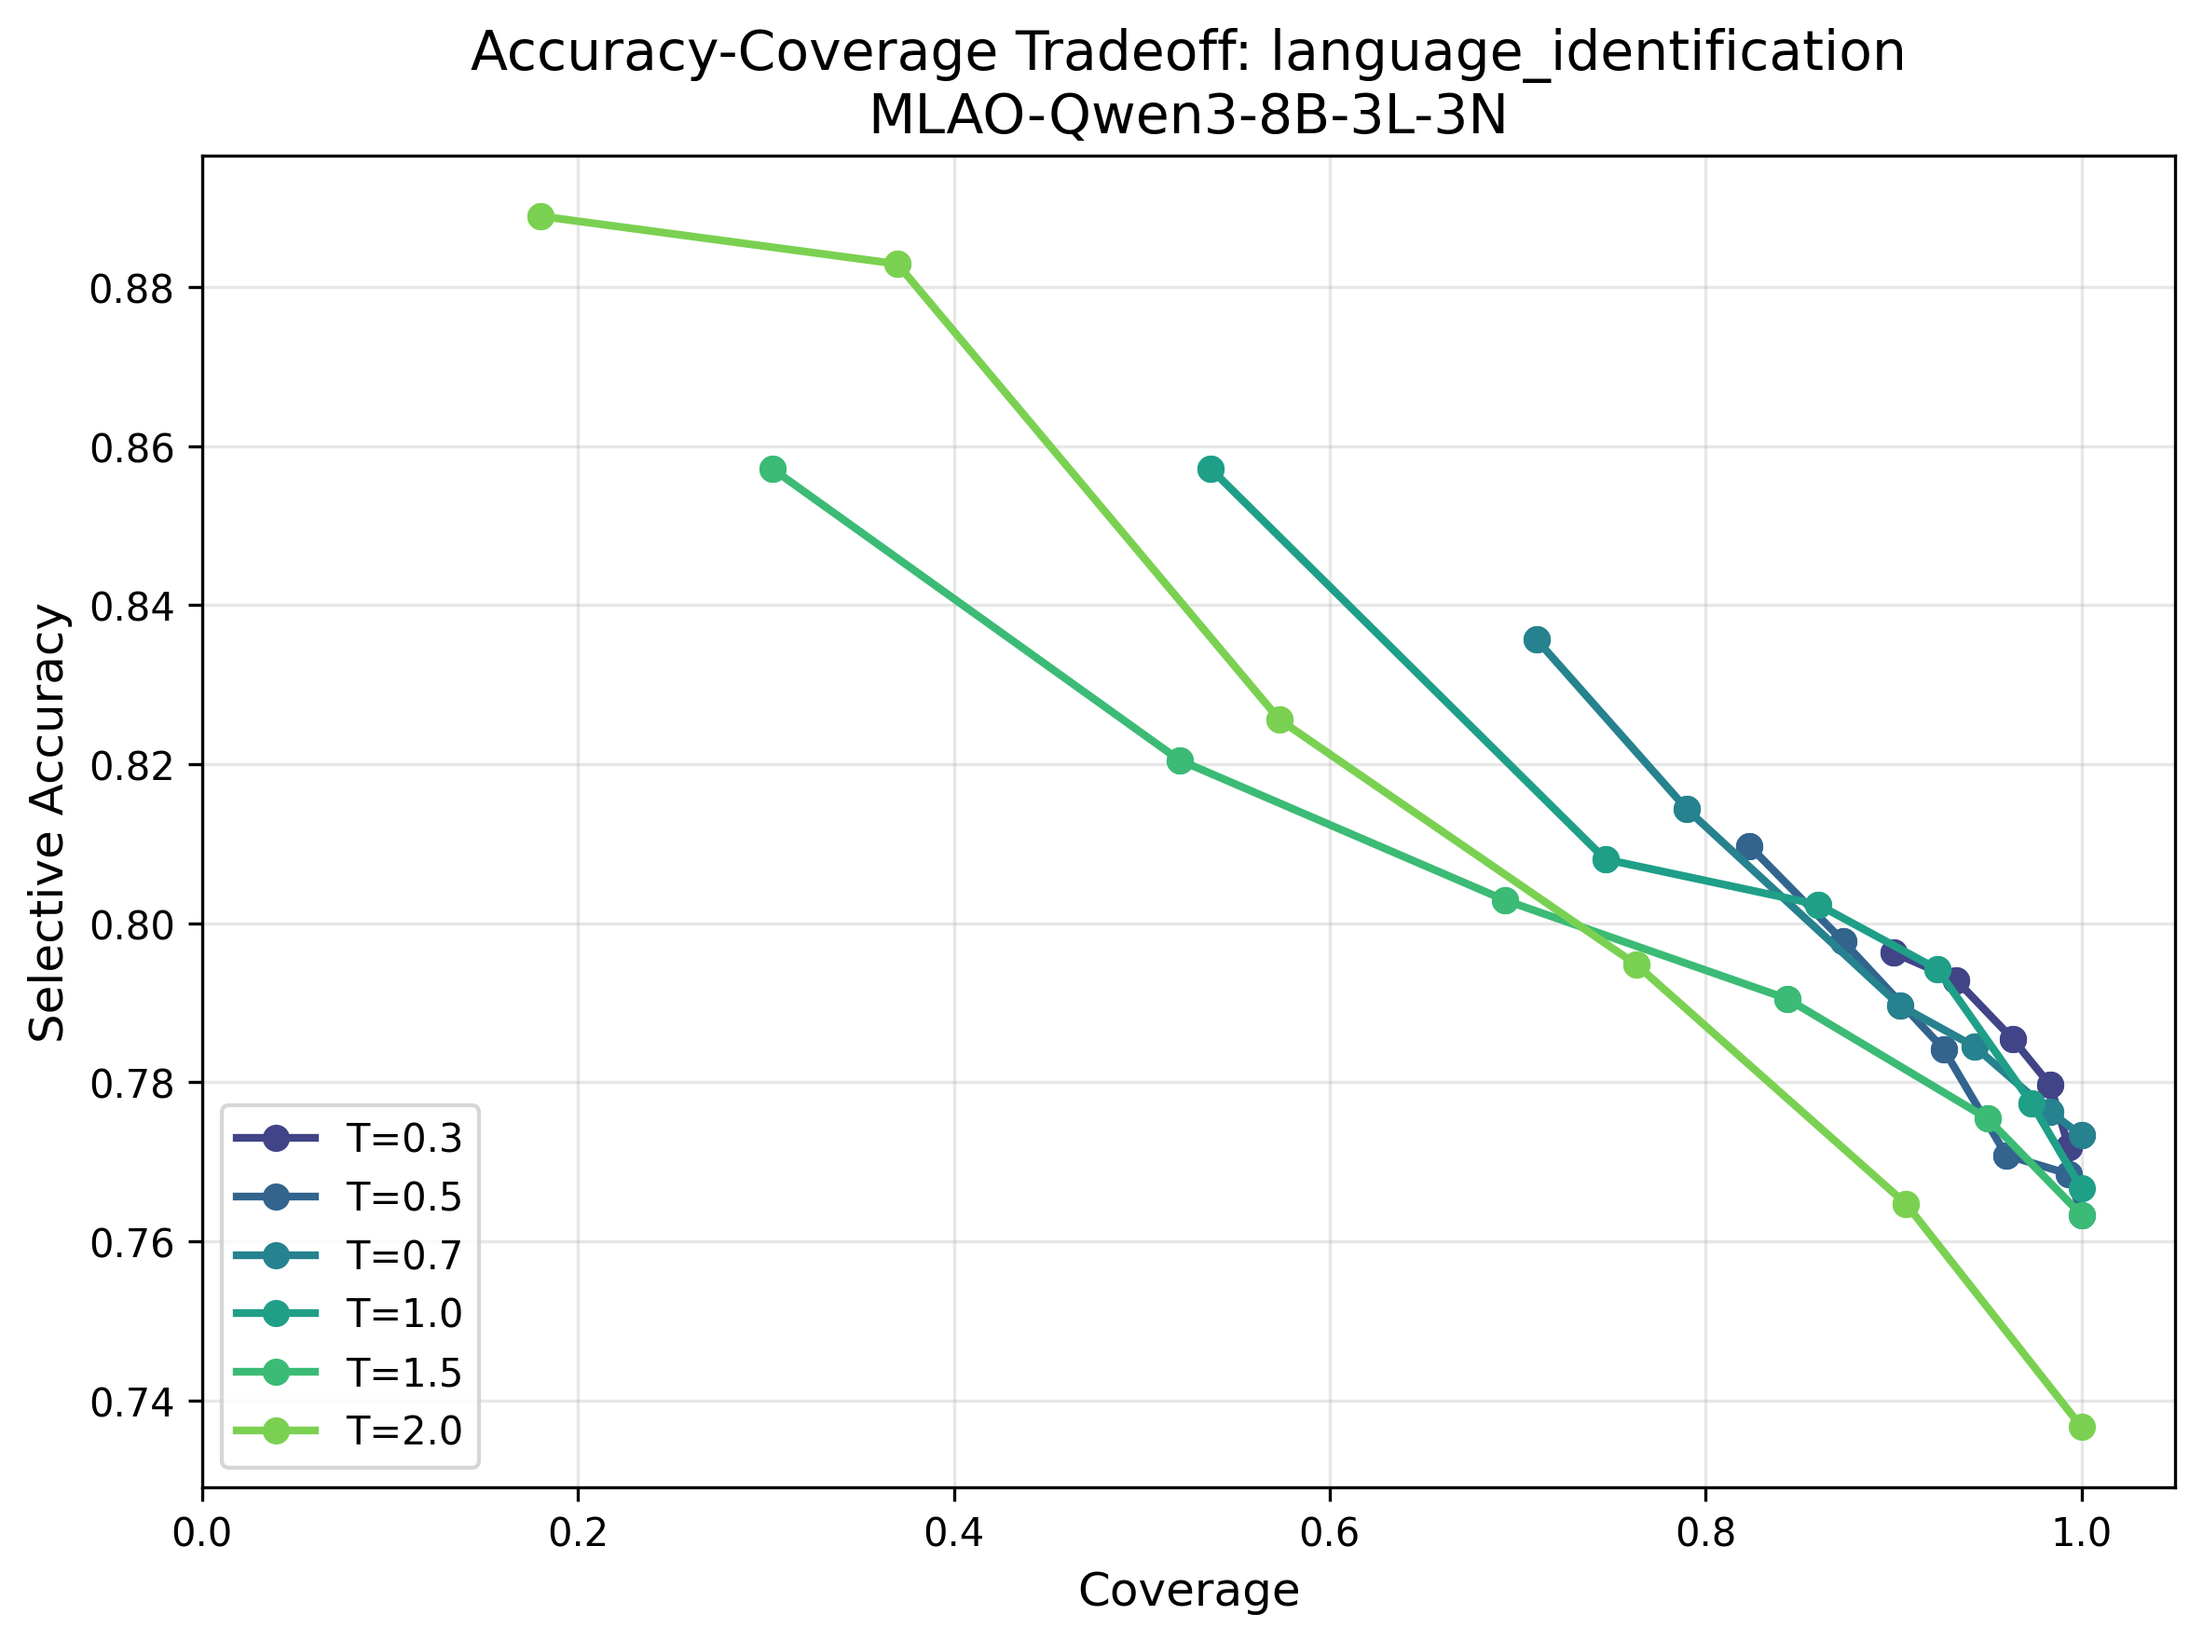
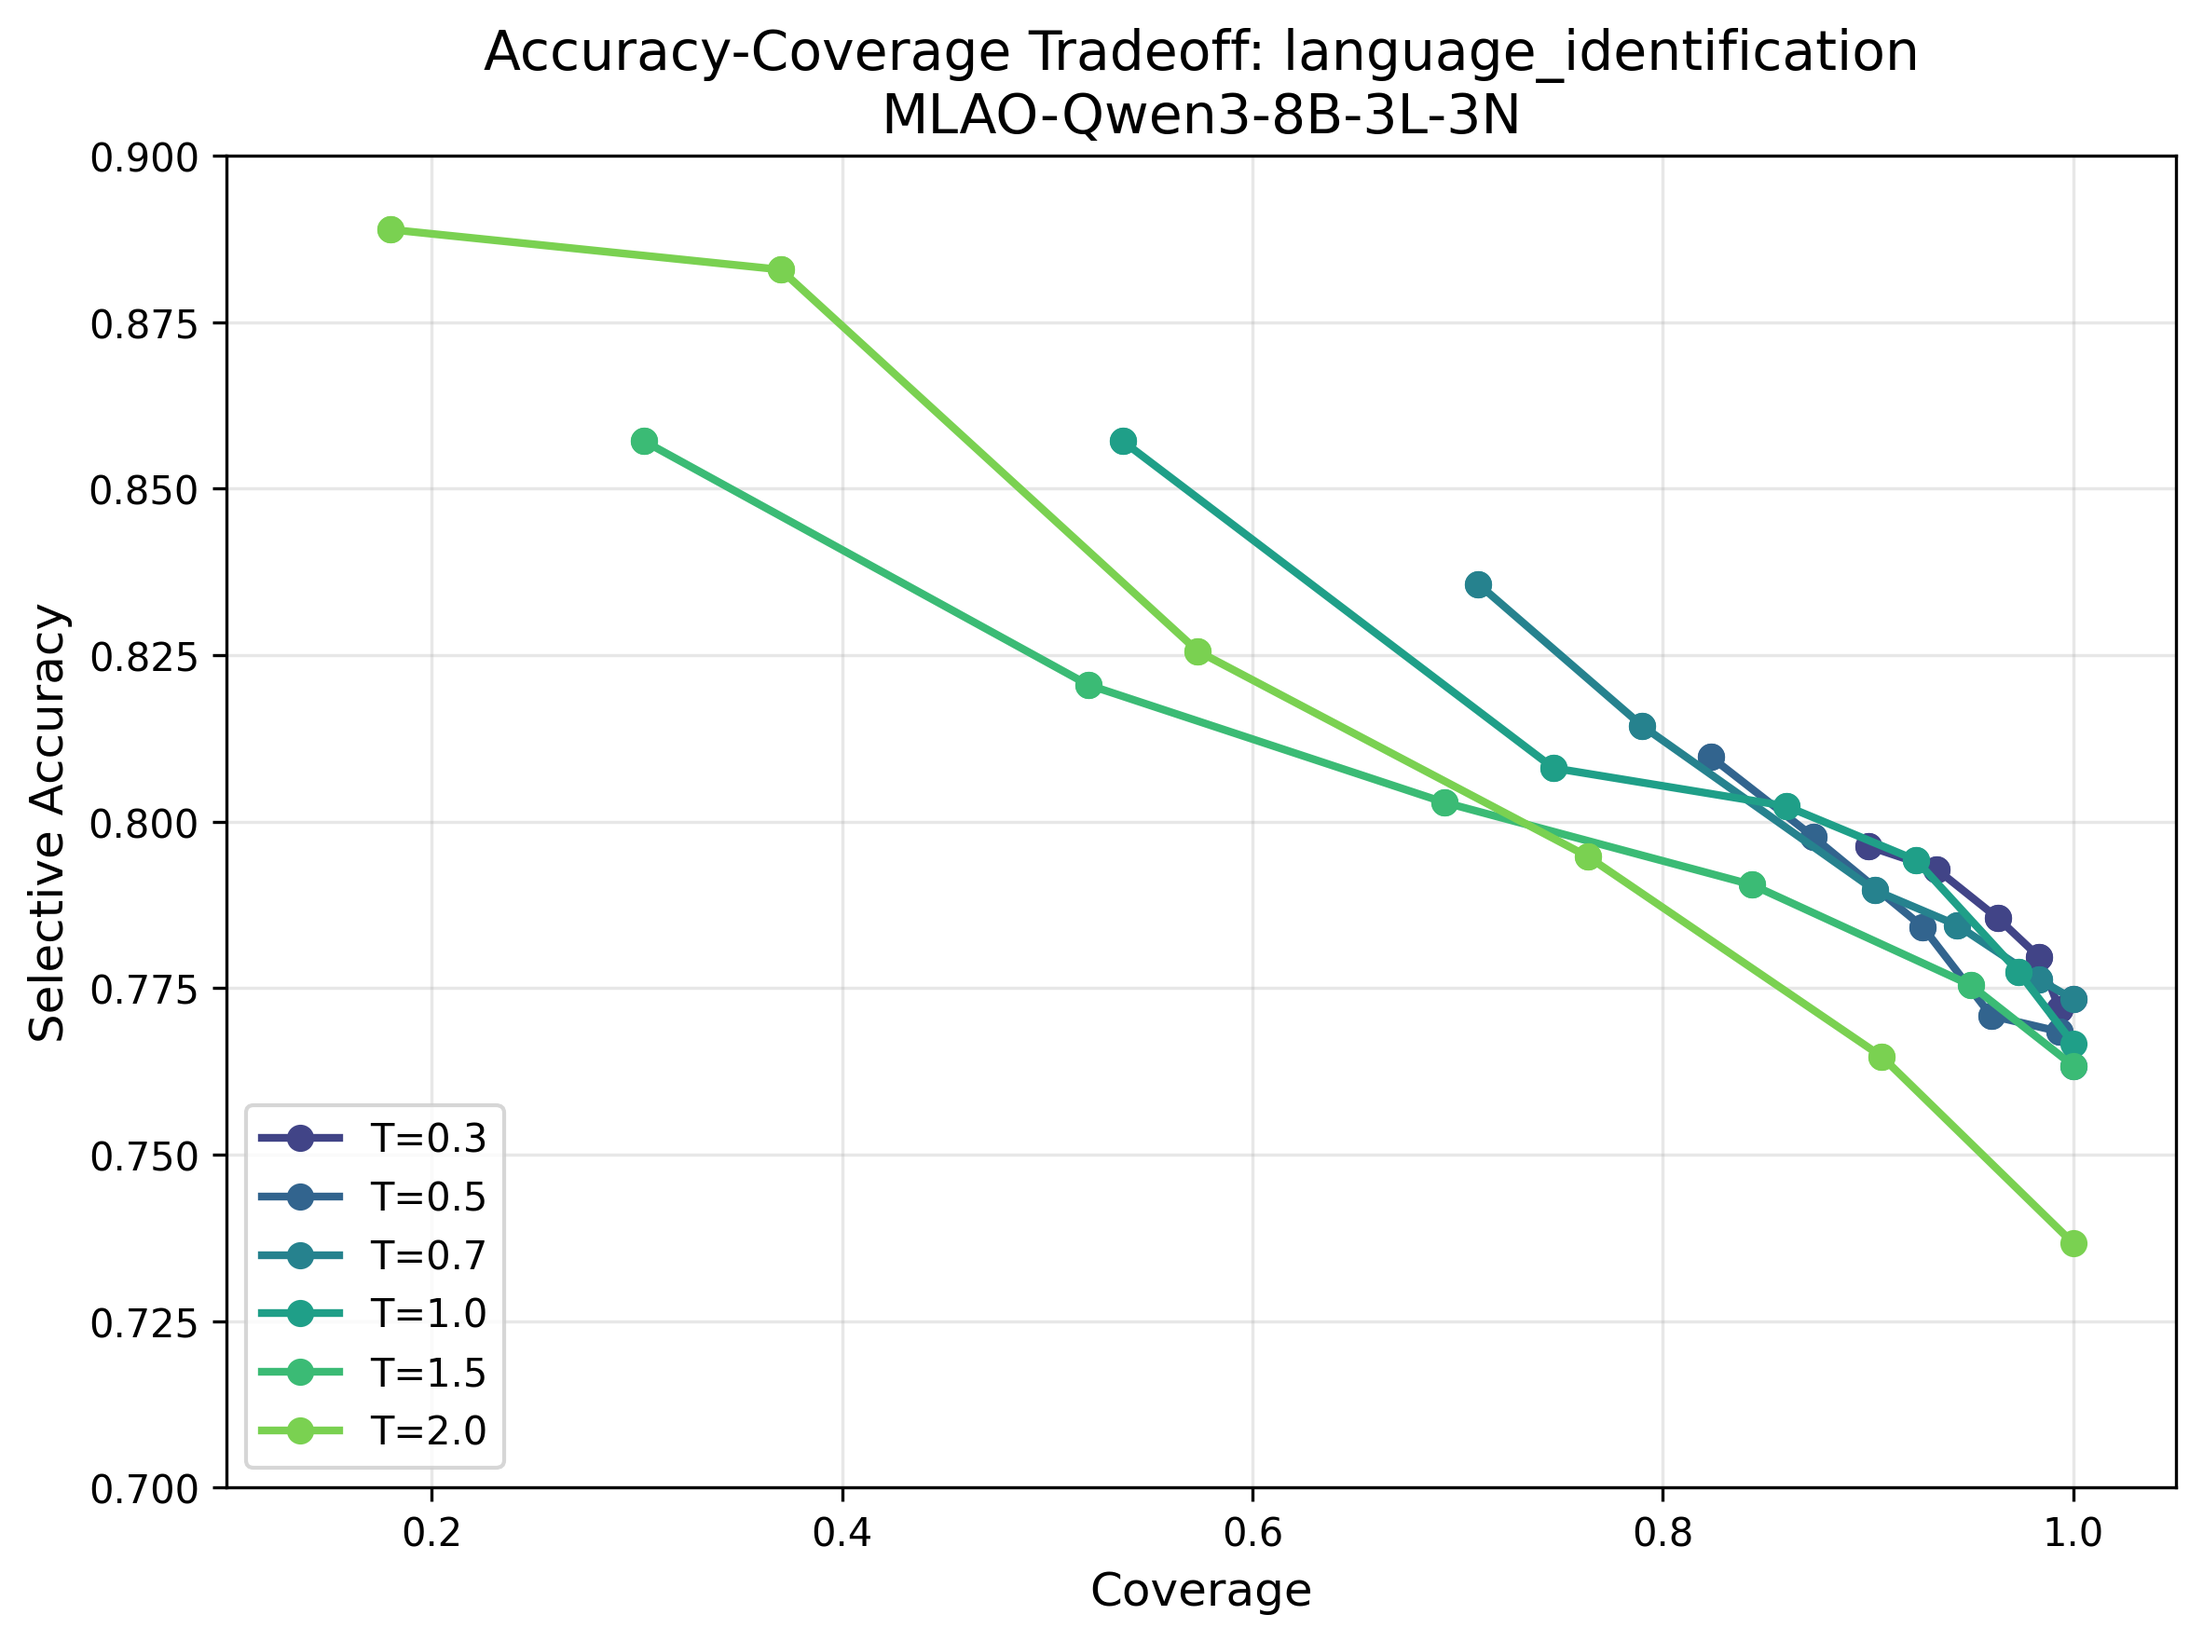
added temp scan results in plot

diff --git a/experiments/plotting/plot_stability_eval.py b/experiments/plotting/plot_stability_eval.py
@@ -27,18 +27,18 @@ DATASET_NAME = "language_identification"
 #   mode="noise"       -> param_value is noise_scale (e.g. 0.003)
 #   mode="temperature"  -> param_value is temperature (e.g. 1.0)
 EXPERIMENTS: list[tuple[str, float]] = [
-    # ("noise", 0.001),
-    # ("noise", 0.003),
-    # ("noise", 0.005),
-    # ("noise", 0.01),
-    # ("noise", 0.02),
+    ("noise", 0.001),
+    ("noise", 0.003),
+    ("noise", 0.005),
+    ("noise", 0.01),
+    ("noise", 0.02),
     # ("noise", 0.05),
-    ("temperature", 0.3),
-    ("temperature", 0.5),
-    ("temperature", 0.7),
-    ("temperature", 1.0),
-    ("temperature", 1.5),
-    ("temperature", 2.0),
+    # ("temperature", 0.3),
+    # ("temperature", 0.5),
+    # ("temperature", 0.7),
+    # ("temperature", 1.0),
+    # ("temperature", 1.5),
+    # ("temperature", 2.0),
 ]
 
 # Input/output paths
@@ -205,7 +205,9 @@ def plot_tradeoff(
 
     ax.set_xlabel("Coverage", fontsize=12)
     ax.set_ylabel("Selective Accuracy", fontsize=12)
-    ax.set_xlim(0, 1.05)
+    ax.set_xlim(0.1, 1.05)
+    ax.set_ylim(0.7, 0.9)
+
     ax.legend(loc="lower left", fontsize=10)
     ax.grid(True, alpha=0.3)
     ax.set_title(title, fontsize=14)
